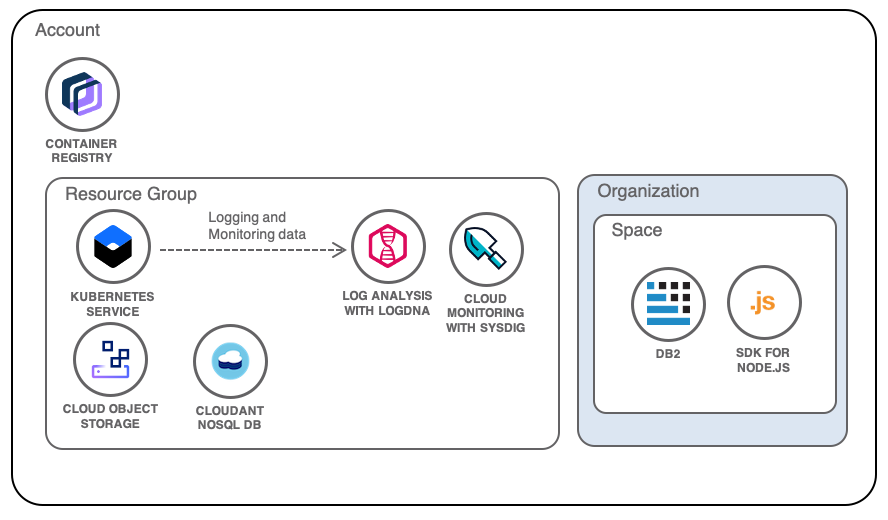
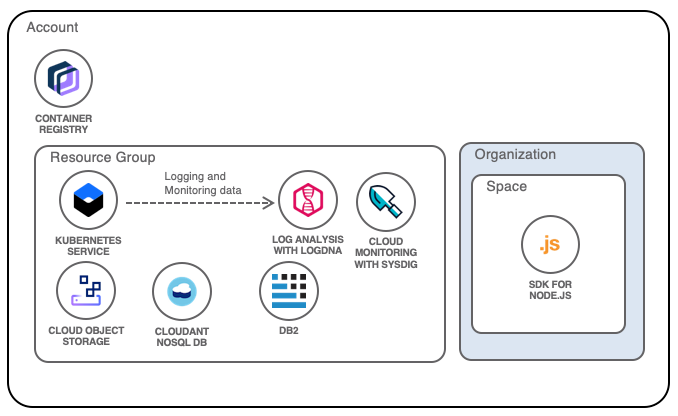
editing pass

Changed region(s): [[0.0, 0.0, 0.9912, 0.9688], [0.031, 0.9688, 0.9602, 1.0], [0.9602, 0.9062, 0.9912, 0.9688]]

diff --git a/users-teams-applications.md b/users-teams-applications.md
@@ -97,15 +97,16 @@ Although the three environments needed by this sample project require different 
 
 Let's start by building the Development environment.
 
-1. [Select an {{site.data.keyword.cloud_notm}} location](https://{DomainName}) where to deploy the environment.
+1. Most cloud service instances are regional.  Keep this in mind and choose the same region for all resources in this tutorial.
+1. Create an instance of [{{site.data.keyword.at_full_notm}}](https://{DomainName}/observe/activitytracker/create) for the region to allow the audit of all API calls for the region.
 1. For Cloud Foundry services and apps:
    1. [Create an organization for the project](https://{DomainName}/docs/account?topic=account-orgsspacesusers#createorg).
    1. [Create a Cloud Foundry space for the environment](https://{DomainName}/docs/account?topic=account-orgsspacesusers#spaceinfo).
    1. Create the Cloud Foundry services used by the project under this space
 1. [Create a resource group for the environment](https://{DomainName}/account/resource-groups).
-1. Create the services compatible with resource group like {{site.data.keyword.cos_full_notm}}, {{site.data.keyword.la_full_notm}}, {{site.data.keyword.mon_full_notm}}, and {{site.data.keyword.cloudant_short_notm}} in this group.
+1. Create the services {{site.data.keyword.cos_full_notm}}, {{site.data.keyword.la_full_notm}}, {{site.data.keyword.mon_full_notm}}, {{site.data.keyword.Db2_on_Cloud_long_notm}} and {{site.data.keyword.cloudant_short_notm}} in this group.
 1. [Create a new Kubernetes cluster](https://{DomainName}/kubernetes/catalog/cluster) in {{site.data.keyword.containershort_notm}}, make sure to select the resource group created above.
-1. Configure {{site.data.keyword.la_full_notm}} and {{site.data.keyword.mon_full_notm}} to send logs and to monitor the cluster.
+1. From the Kubernetes cluster connect to the {{site.data.keyword.la_full_notm}} and {{site.data.keyword.mon_full_notm}} service instances to send logs and to monitor the cluster.
 
 The following diagram shows where the project resources are created under the account:
 
@@ -124,7 +125,7 @@ Refer to the documentation of services to understand how a service is mapping IA
 
 Assigning the right roles to users will require several iterations and refinement. Given permissions can be controlled at the resource group level, for all resources in a group or be fine-grained down to a specific instance of a service, you will discover over time what are the ideal access policies for your project.
 
-Note that by default accounts are configured for [unrestricted user view access](https://{DomainName}/docs/account?topic=account-userlistview). Any user in the account can see any other user information. You can [change the setting](https://{DomainName}/iam/settings) to a restrictive mode.
+Note that by default accounts are configured for [unrestricted user view access](https://{DomainName}/docs/account?topic=account-iam-user-setting). Any user in the account can see any other user information. You can [change the setting](https://{DomainName}/iam/settings) to a restrictive mode.
 {: tip}
 
 A good practice is to start with the minimum set of permissions then expand carefully as needed. For Kubernetes, you will want to look at its [Role-Based Access Control (RBAC)](https://kubernetes.io/docs/admin/authorization/rbac/) to configure in-cluster authorizations.
@@ -138,7 +139,11 @@ For the Development environment, the user responsibilities defined earlier could
 | Operator  | <ul><li>Resource Group: *Viewer*</li><li>Platform Access Roles in the Resource Group: *Operator*, *Viewer*</li><li>Logging & Monitoring service role: *Writer*</li></ul> | <ul><li>Organization Role: *Auditor*</li><li>Space Role: *Developer*</li></ul> |
 | Pipeline Service ID | <ul><li>Resource Group: *Viewer*</li><li>Platform Access Roles in the Resource Group: *Editor*, *Viewer*</li></ul> | <ul><li>Organization Role: *Auditor*</li><li>Space Role: *Developer*</li></ul> |
 
-The IAM access policies and Cloud Foundry roles are defined in the [Identify and Access Management user interface](https://{DomainName}/iam/#/users):
+The IAM access configuration for groups is centralized in [Access (IAM) Acess groups](https://{DomainName}/iam/groups):
+1. Select or create an access group.
+1. Select the **Access policies** tab
+1. Click **Assign access** button to assign policies as shown below
+1. Click the **Users** tab of the **Access group** to add users to the group
 
 <p style="text-align: center;">
   <img title="" src="./images/solution20-users-teams-applications/edit-policy.png" alt="Configuration of permissions for the developer role" />
@@ -158,7 +163,7 @@ From there, you can replicate similar steps to build the other environments.
   <img title="Using separate clusters to isolate environments" src="./images/solution20-users-teams-applications/multiple-environments.png" style="width: 80%;" alt="Diagram showing separate clusters to isolate environments" />
 </p>
 
-Using a combination of tools like the [{{site.data.keyword.cloud_notm}} `ibmcloud` CLI](https://github.com/IBM-Cloud/ibm-cloud-developer-tools), [HashiCorp's `terraform`](https://www.terraform.io/), the [{{site.data.keyword.cloud_notm}} provider for Terraform](https://github.com/IBM-Cloud/terraform-provider-ibm), Kubernetes CLI `kubectl`, you can script and automate the creation of these environments.
+Using a combination of tools like the [{{site.data.keyword.cloud_notm}} `ibmcloud` CLI](https://github.com/IBM-Cloud/ibm-cloud-developer-tools), [terraform](https://{DomainName}/docs/terraform?topic=terraform-about), the [{{site.data.keyword.cloud_notm}} provider for Terraform](https://github.com/IBM-Cloud/terraform-provider-ibm), Kubernetes CLI `kubectl`, you can script and automate the creation of these environments.
 
 Separate Kubernetes clusters for the environments come with good properties:
 * no matter the environment, all clusters will tend to look the same;
@@ -198,9 +203,9 @@ As you get acquainted with Kubernetes, [Helm](https://helm.sh/), the package man
 
 Congratulations, your application can now safely be deployed from dev to production. Below are additional suggestions to improve application delivery.
 
-* Add [{{site.data.keyword.DRA_short}}](https://{DomainName}/catalog/services/devops-insights) to your pipeline to perform quality control during deployments.
-* Review team member coding contributions and the interactions between developers with [{{site.data.keyword.DRA_short}}](https://{DomainName}/catalog/services/devops-insights).
+* Add a [Hello Helm toolchain](https://github.com/open-toolchain/simple-helm-toolchain) to automate the delivery of changes to the kubernetes cluster
 * Follow the tutorial [Plan, create and update deployment environments](https://{DomainName}/docs/solution-tutorials?topic=solution-tutorials-plan-create-update-deployments#plan-create-update-deployments) to automate the deployment of your environments.
+* Investigate [Using the IBM Cloud console to create VPC resources](https://{DomainName}/docs/vpc?topic=vpc-creating-a-vpc-using-the-ibm-cloud-console)
 
 ## Related information
 {: #users-teams-applications-8}
